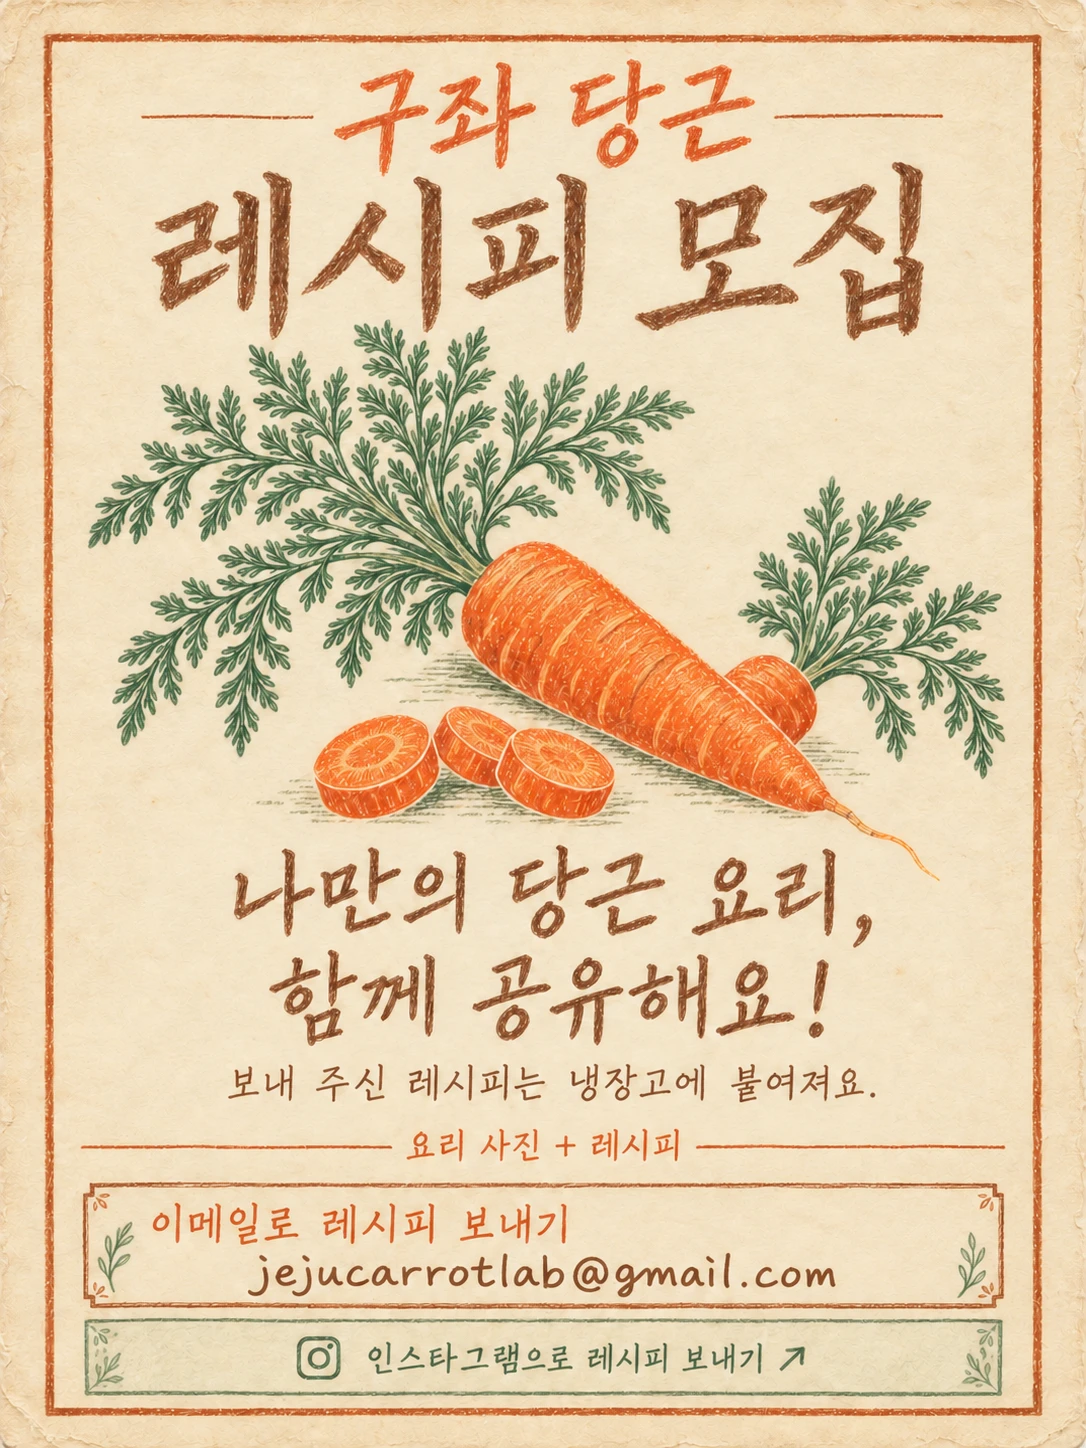
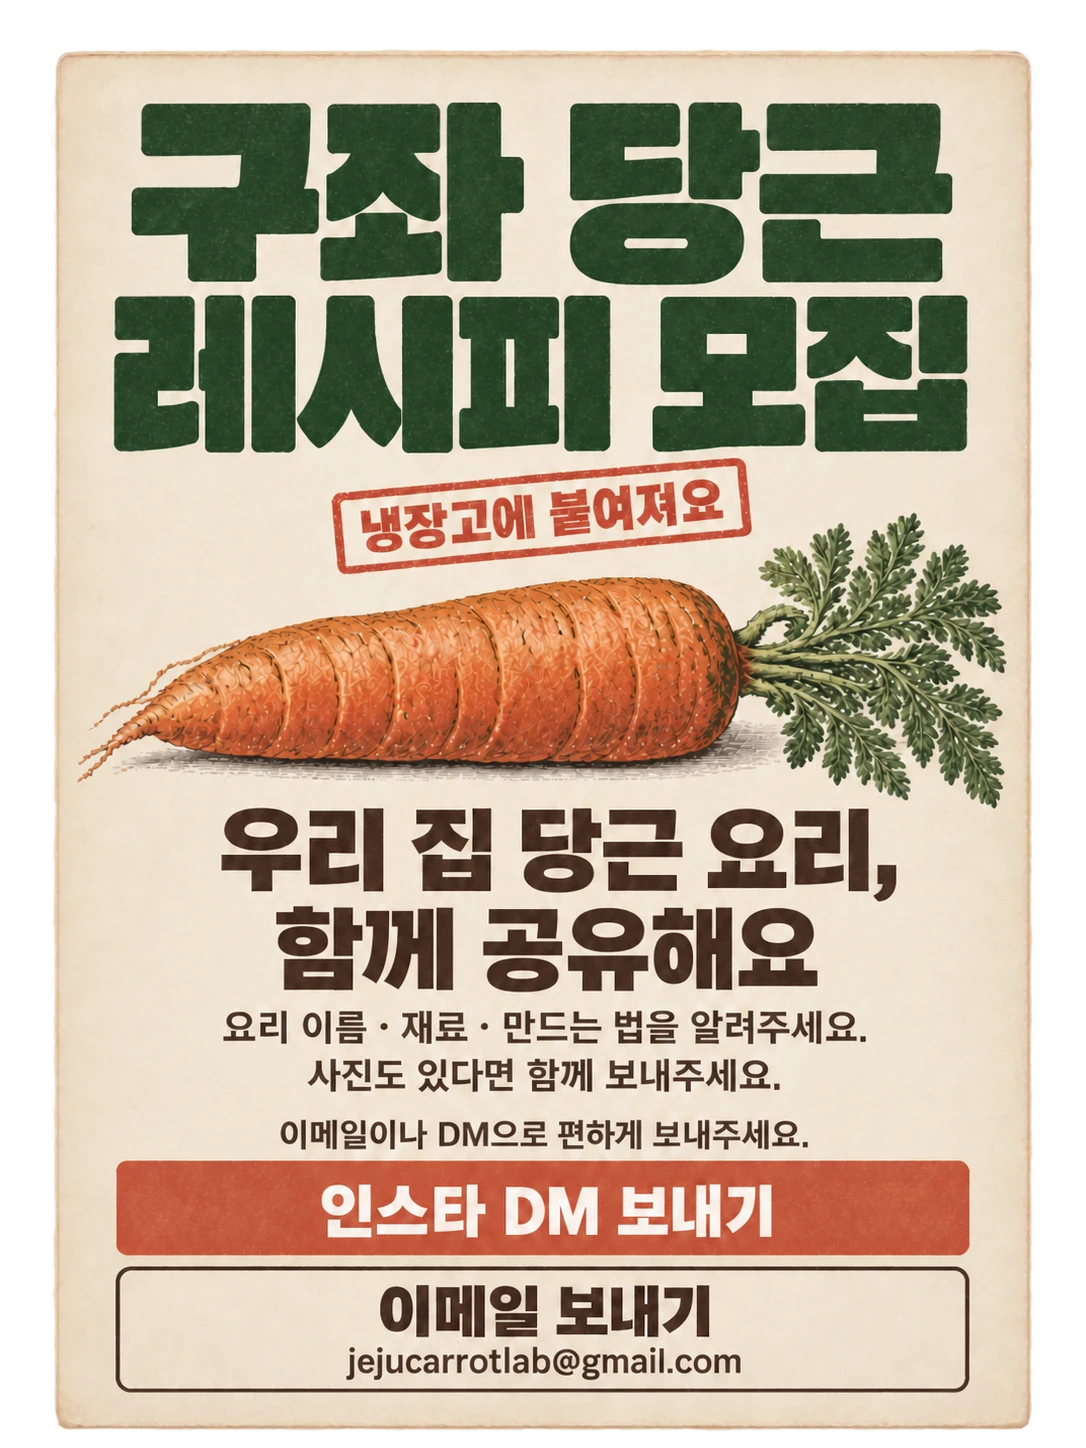
3p recipe call: new poster, and shown on phones
The recipe call opens the team's new poster ("구좌 당근 레시피 모집"). Its two
buttons stay real links laid over the picture: "인스타 DM 보내기" opens
instagram.com/jeju_carrot_hub, "이메일 보내기" writes to jejucarrotlab@gmail.com
with the recipe form filled in. The poster has see-through margins, so the panel
has no background of its own and the shadow follows the paper.

On phones the poster was laid out below the screen: the wide-screen rule that
lets the panel's height follow the poster (bottom:auto) also cleared the phone
sheet's place at the bottom. The phone rule now sets it again (bottom:10px).

diff --git a/src/details.ts b/src/details.ts
@@ -99,8 +99,8 @@ export const details:Record<string,Detail>={
   tip:'밝은 곳에서 찍은 사진이 더 맛있어 보여요. 가족의 비법이나 나만의 팁도 좋아요.',
   actions:[...(SHARE.email?[{label:'이메일로 레시피 보내기',href:`mailto:${SHARE.email}?subject=${encodeURIComponent('[당근 레시피] 내 레시피를 보내요')}&body=${encodeURIComponent('요리 이름:\n재료:\n만드는 순서:\n닉네임(선택):\n(요리 사진도 함께 첨부해 주세요)')}`}]:[]),...(SHARE.instagram?[{label:'인스타그램으로 레시피 보내기',href:`https://www.instagram.com/${SHARE.instagram}/`}]:[])],
   note:SHARE.email||SHARE.instagram?undefined:'레시피를 받는 곳(인스타그램·이메일)을 준비하고 있어요. 곧 열려요.',
-  sheet:{src:url('/media/recipe-share.webp'),alt:'구좌 당근 레시피 모집. 나만의 당근 요리, 함께 공유해요! 보내 주신 레시피는 냉장고에 붙여져요. 요리 사진과 레시피를 이메일(jejucarrotlab@gmail.com)이나 인스타그램으로 보내 주세요.',width:1086,height:1448,
-   links:[{label:'이메일로 레시피 보내기',box:[7.64,81.7,84.71,8.63]},{label:'인스타그램으로 레시피 보내기',box:[7.73,91.09,84.53,5.25]}]},
+  sheet:{src:url('/media/recipe-share.webp'),alt:'구좌 당근 레시피 모집. 냉장고에 붙여져요. 우리 집 당근 요리, 함께 공유해요. 요리 이름·재료·만드는 법을 알려주세요. 사진도 있다면 함께 보내주세요. 이메일이나 DM으로 편하게 보내주세요. 인스타 DM 보내기, 이메일 보내기(jejucarrotlab@gmail.com).',width:1086,height:1448,
+   links:[{label:'인스타그램으로 레시피 보내기',box:[10.77,80.18,78.45,6.49]},{label:'이메일로 레시피 보내기',box:[10.68,87.5,78.55,8.63]}]},
   link:{label:'웹진 둘러보기',href:site},related:['recipe-burger']},
  // The notes on the kitchen wall open their recipe posters as a book (src/PosterBook.tsx, src/posters.ts); these entries name them for
  // links, analytics and the related buttons.

diff --git a/src/cinematic.css b/src/cinematic.css
@@ -78,9 +78,9 @@
 @keyframes detail-in{from{opacity:0;transform:translateX(18px)}to{opacity:1;transform:none}}
 /* A story shown as one picture (details.ts `sheet`, the recipe call poster): the poster is the whole panel, sized to fit the screen's height,
    and its buttons are links laid over it. */
-.detail-panel.is-sheet{bottom:auto;width:min(400px,34vw,calc((100svh - 116px) * .75));background:#f3e3c6;border:0;border-radius:6px;overflow:hidden}
+.detail-panel.is-sheet{bottom:auto;width:min(400px,34vw,calc((100svh - 116px) * .75));background:none;border:0;border-radius:0;box-shadow:none}
 .detail-sheet{position:relative;width:100%;margin:0}
-.detail-sheet img{display:block;width:100%;height:auto}
+.detail-sheet img{display:block;width:100%;height:auto;filter:drop-shadow(0 10px 22px #3c281440)}
 .detail-sheet-link{position:absolute;border-radius:4px;transition:background .15s}
 .detail-sheet-link:hover{background:#a9613f1f}
 .detail-sheet-link:focus-visible{outline:3px solid #a9613f;outline-offset:2px}
@@ -88,7 +88,7 @@
 @media(max-width:760px){
  .detail-panel{top:auto;left:10px;right:10px;bottom:10px;width:auto;max-height:64svh;border-radius:20px;animation-name:detail-up}
  .detail-body{padding:26px 20px 22px}
- .detail-panel.is-sheet{width:min(calc(100% - 20px),calc((100svh - 90px) * .75));max-height:none;margin:0 auto;border-radius:6px}
+ .detail-panel.is-sheet{bottom:10px;width:min(calc(100% - 20px),calc((100svh - 90px) * .75));max-height:none;margin:0 auto;border-radius:6px}
  @keyframes detail-up{from{opacity:0;transform:translateY(24px)}to{opacity:1;transform:none}}
 }
 /* Magazine brand (gujwa-carrot.vercel.app): logo, then the name after a thin rule. */
